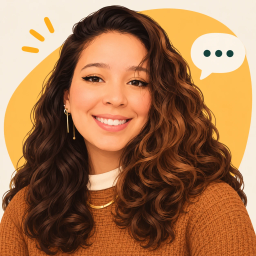
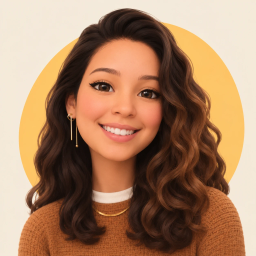
feat: highlight spoken words and refresh chat bubbles

diff --git a/src/components/practice/ChatBubble.tsx b/src/components/practice/ChatBubble.tsx
@@ -1,6 +1,19 @@
 import { Ionicons } from '@expo/vector-icons';
-import { type ComponentProps, type ReactNode, useState } from 'react';
+import {
+  type ComponentProps,
+  type ReactNode,
+  useEffect,
+  useState,
+} from 'react';
 import { Pressable, Text, View } from 'react-native';
+import Animated, {
+  cancelAnimation,
+  useAnimatedStyle,
+  useReducedMotion,
+  useSharedValue,
+  withRepeat,
+  withTiming,
+} from 'react-native-reanimated';
 
 import { CorrectionCard } from '@/components/practice/CorrectionCard';
 import { GisaAvatar } from '@/components/practice/GisaAvatar';
@@ -8,15 +21,112 @@ import { colors } from '@/constants/theme';
 import type { ChatMessage } from '@/hooks/usePracticeChat';
 import { splitByMistakes } from '@/utils/practice';
 
-// Balão da Gisa, com a foto ao lado
-export function GisaBubble({ children }: { children: ReactNode }) {
+// Amarelo do sublinhado dos erros no balão verde (yellow-300)
+const MISTAKE_UNDERLINE = '#fde047';
+
+const AVATAR_SIZE = 40;
+
+// Foto da Gisa com um anel verde pulsando enquanto ela fala
+function SpeakingAvatar({ speaking }: { speaking: boolean }) {
+  const reducedMotion = useReducedMotion();
+  const pulse = useSharedValue(0);
+
+  useEffect(() => {
+    if (speaking && !reducedMotion) {
+      pulse.value = withRepeat(withTiming(1, { duration: 600 }), -1, true);
+    } else {
+      cancelAnimation(pulse);
+      pulse.value = 0;
+    }
+  }, [speaking, reducedMotion, pulse]);
+
+  const ringStyle = useAnimatedStyle(() => ({
+    transform: [{ scale: 1 + pulse.value * 0.12 }],
+    opacity: speaking ? 1 - pulse.value * 0.5 : 0,
+  }));
+
+  return (
+    <View
+      style={{ width: AVATAR_SIZE, height: AVATAR_SIZE }}
+      className="items-center justify-center"
+    >
+      <Animated.View
+        pointerEvents="none"
+        className="absolute rounded-full border-2 border-green-500"
+        style={[
+          {
+            width: AVATAR_SIZE + 6,
+            height: AVATAR_SIZE + 6,
+          },
+          ringStyle,
+        ]}
+      />
+      <GisaAvatar size={AVATAR_SIZE} />
+    </View>
+  );
+}
+
+// Balão da Gisa, com a foto ao lado. Enquanto ela fala, a borda fica verde e
+// a foto ganha o anel pulsando.
+export function GisaBubble({
+  children,
+  speaking = false,
+}: {
+  children: ReactNode;
+  speaking?: boolean;
+}) {
   return (
     <View className="max-w-[88%] flex-row items-end gap-2 self-start">
-      <GisaAvatar size={40} />
-      <View className="shrink rounded-2xl rounded-bl-md border border-gray-200 bg-white px-4 py-3">
+      <SpeakingAvatar speaking={speaking} />
+      <View
+        accessibilityState={{ busy: speaking }}
+        className={`shrink rounded-2xl rounded-bl-md border bg-white px-4 py-3 ${speaking ? 'border-green-500' : 'border-gray-200'}`}
+      >
         {children}
       </View>
     </View>
+  );
+}
+
+// O texto da fala, com a palavra `active` destacada (a que a Gisa está
+// falando). As palavras são as partes separadas por espaço, como os tempos
+// que vêm do backend.
+function SpokenText({
+  content,
+  active,
+}: {
+  content: string;
+  active: number | null;
+}) {
+  if (active === null) {
+    return (
+      <Text className="font-poppins text-[15px] leading-6 text-gray-900">
+        {content}
+      </Text>
+    );
+  }
+
+  let word = -1;
+  return (
+    <Text className="font-poppins text-[15px] leading-6 text-gray-900">
+      {content.split(/(\s+)/).map((part, index) => {
+        if (part === '' || /^\s+$/.test(part)) {
+          return part;
+        }
+        word += 1;
+        return word === active ? (
+          <Text
+            // biome-ignore lint/suspicious/noArrayIndexKey: as partes não mudam de ordem
+            key={index}
+            className="bg-green-100 text-green-800"
+          >
+            {part}
+          </Text>
+        ) : (
+          part
+        );
+      })}
+    </Text>
   );
 }
 
@@ -55,19 +165,23 @@ export function GisaMessage({
   content,
   translation,
   listen,
+  speaking = false,
+  activeWord = null,
 }: {
   content: string;
   translation?: string;
   // Botão de ouvir (ListenButton), quando a fala tem voz
   listen?: ReactNode;
+  // A voz desta fala está tocando
+  speaking?: boolean;
+  // Índice da palavra que está sendo falada; null sem destaque
+  activeWord?: number | null;
 }) {
   const [isTranslated, setIsTranslated] = useState(false);
 
   return (
-    <GisaBubble>
-      <Text className="font-poppins text-[15px] leading-6 text-gray-900">
-        {content}
-      </Text>
+    <GisaBubble speaking={speaking}>
+      <SpokenText content={content} active={activeWord} />
 
       {translation && isTranslated ? (
         <Text className="mt-2 border-t border-gray-200 pt-2 font-poppins text-sm leading-5 text-gray-600">
@@ -114,9 +228,9 @@ export function StudentMessage({
     return (
       <View
         accessibilityLabel="Ouvindo sua resposta"
-        className="max-w-[88%] self-end rounded-2xl rounded-br-md border border-green-200 bg-green-50 px-4 py-3 opacity-60"
+        className="max-w-[88%] self-end rounded-2xl rounded-br-md bg-green-600 px-4 py-3 opacity-60"
       >
-        <Text className="font-poppins text-[15px] italic leading-6 text-gray-700">
+        <Text className="font-poppins text-[15px] italic leading-6 text-white">
           Ouvindo...
         </Text>
       </View>
@@ -138,18 +252,18 @@ export function StudentMessage({
             ? `${message.content}. Correção: ${correction.corrected}`
             : message.content
         }
-        className={`max-w-[88%] self-end rounded-2xl rounded-br-md border border-green-200 bg-green-50 px-4 py-3 ${message.status === 'sending' ? 'opacity-60' : ''}`}
+        className={`max-w-[88%] self-end rounded-2xl rounded-br-md bg-green-600 px-4 py-3 ${message.status === 'sending' ? 'opacity-60' : ''}`}
       >
-        <Text className="font-poppins text-[15px] leading-6 text-gray-900">
+        <Text className="font-poppins text-[15px] leading-6 text-white">
           {parts.map((part, index) =>
             part.isMistake ? (
               <Text
                 // biome-ignore lint/suspicious/noArrayIndexKey: as partes não mudam de ordem
                 key={index}
-                className="text-red-700"
+                className="text-white"
                 style={{
                   textDecorationLine: 'underline',
-                  textDecorationColor: colors.red,
+                  textDecorationColor: MISTAKE_UNDERLINE,
                 }}
               >
                 {part.text}

diff --git a/src/hooks/useGisaVoice.ts b/src/hooks/useGisaVoice.ts
@@ -25,17 +25,35 @@ export type VoiceState = 'idle' | 'loading' | 'playing';
 // `<id>-corrected`) e só marca qual botão está tocando; o arquivo é guardado
 // pela assinatura, única para cada texto: a abertura tem o mesmo id em toda
 // conversa, mas não o mesmo texto.
+//
+// Com os tempos das palavras que o backend devolve, `activeWordOf` diz qual
+// palavra está sendo falada, para o balão destacar como uma legenda.
+
+// Frequência com que o player informa o tempo: curta para a palavra
+// destacada acompanhar a fala
+const STATUS_INTERVAL_MS = 100;
+
+interface CachedSpeech {
+  uri: string;
+  wordStarts: number[] | null;
+}
+
 export function useGisaVoice() {
   const { token } = useAuth();
-  const player = useAudioPlayer();
+  const player = useAudioPlayer(undefined, {
+    updateInterval: STATUS_INTERVAL_MS,
+  });
   const status = useAudioPlayerStatus(player);
-  // Assinatura da fala para o arquivo no cache
-  const files = useRef(new Map<string, string>());
+  // Assinatura da fala para o arquivo no cache e os tempos das palavras
+  const files = useRef(new Map<string, CachedSpeech>());
   // Sobe a cada pedido e a cada `stop`: a resposta de um pedido antigo não toca
   const request = useRef(0);
   const isMountedRef = useRef(true);
   const [loadingKey, setLoadingKey] = useState<string | null>(null);
   const [currentKey, setCurrentKey] = useState<string | null>(null);
+  const [currentWordStarts, setCurrentWordStarts] = useState<number[] | null>(
+    null
+  );
   // A mesma chave e o arquivo carregado no player, lidos depois de um pedido
   // que demorou
   const currentKeyRef = useRef<string | null>(null);
@@ -66,7 +84,7 @@ export function useGisaVoice() {
       } catch {
         // player já liberado
       }
-      for (const uri of cached.values()) {
+      for (const { uri } of cached.values()) {
         try {
           new File(uri).delete();
         } catch {
@@ -78,7 +96,8 @@ export function useGisaVoice() {
   }, [player]);
 
   // `current` é o pedido que mandou tocar: um `stop` no meio cancela
-  function play(key: string, uri: string, current: number) {
+  function play(key: string, speech: CachedSpeech, current: number) {
+    const { uri } = speech;
     if (key === currentKeyRef.current && uri === currentUriRef.current) {
       // Depois de tocar até o fim o player fica parado no final do áudio
       player
@@ -95,6 +114,7 @@ export function useGisaVoice() {
       currentKeyRef.current = key;
       currentUriRef.current = uri;
       setCurrentKey(key);
+      setCurrentWordStarts(speech.wordStarts);
     }
   }
 
@@ -126,9 +146,13 @@ export function useGisaVoice() {
       }
       const file = new File(Paths.cache, `gisa-${Date.now()}-${current}.mp3`);
       file.write(speech.audio, { encoding: 'base64' });
-      files.current.set(signature, file.uri);
+      const entry: CachedSpeech = {
+        uri: file.uri,
+        wordStarts: speech.wordStarts ?? null,
+      };
+      files.current.set(signature, entry);
       if (current === request.current) {
-        play(key, file.uri, current);
+        play(key, entry, current);
       }
     } catch (err) {
       if (!isMountedRef.current) {
@@ -162,6 +186,21 @@ export function useGisaVoice() {
     return currentKey === key && status.playing ? 'playing' : 'idle';
   }
 
+  // Índice da palavra que está sendo falada na fala `key` (as partes do texto
+  // separadas por espaço); null quando ela não está tocando ou não tem tempos
+  function activeWordOf(key: string): number | null {
+    if (stateOf(key) !== 'playing' || !currentWordStarts?.length) {
+      return null;
+    }
+    let index = 0;
+    for (let i = 0; i < currentWordStarts.length; i++) {
+      if (currentWordStarts[i] <= status.currentTime) {
+        index = i;
+      }
+    }
+    return index;
+  }
+
   // Toque do aluno no botão de ouvir: toca, ou para o que está tocando
   function toggle(key: string, text: string, signature: string) {
     if (stateOf(key) !== 'idle') {
@@ -193,6 +232,7 @@ export function useGisaVoice() {
 
   return {
     stateOf,
+    activeWordOf,
     toggle,
     autoplay,
     stop,

diff --git a/src/app/(app)/practice/chat.tsx b/src/app/(app)/practice/chat.tsx
@@ -365,6 +365,8 @@ export default function PracticeChatScreen() {
                 <GisaMessage
                   content={item.content}
                   translation={item.translation}
+                  speaking={voice.stateOf(item.id) === 'playing'}
+                  activeWord={voice.activeWordOf(item.id)}
                   listen={
                     signature ? (
                       <ListenButton

diff --git a/src/services/practice.ts b/src/services/practice.ts
@@ -90,6 +90,9 @@ export interface PracticeSpeech {
   // MP3 em base64
   audio: string;
   format: 'mp3';
+  // Segundo em que cada palavra da fala começa (as partes separadas por
+  // espaço); null sem alinhamento, ausente no backend antigo
+  wordStarts?: number[] | null;
 }
 
 // Voz de uma fala da Gisa ou de uma frase corrigida. O texto vai como veio

diff --git a/.specs/practice-chat/architecture.md b/.specs/practice-chat/architecture.md
@@ -124,7 +124,7 @@ A abertura e o turno trazem, todos opcionais (ausentes no backend antigo):
 - `suggestion` e `suggestionTranslation`: uma resposta possível do aluno à pergunta da fala, e a tradução. Podem vir vazias.
 - `replySignature`: a assinatura de `reply`. No turno, `correctedSignature`, só quando `correction.hasErrors` é verdadeiro: a assinatura de `correction.corrected`.
 
-`POST /api/mobile/practice/speech`, com `{ "text": string, "signature": string }`, devolve `{ "audio": "<MP3 em base64>", "format": "mp3" }`. O texto vai exatamente como veio do backend: é o que a assinatura cobre.
+`POST /api/mobile/practice/speech`, com `{ "text": string, "signature": string }`, devolve `{ "audio": "<MP3 em base64>", "format": "mp3", "wordStarts": number[] | null }`. O texto vai exatamente como veio do backend: é o que a assinatura cobre. `wordStarts` é o segundo em que cada palavra da fala começa, na ordem das partes do texto separadas por espaço, para o app destacar a palavra que está sendo falada; vem `null` quando a ElevenLabs não devolve o alinhamento.
 
 `POST /api/mobile/practice/transcription`, multipart com a gravação no campo `audio` (até 1 MB), devolve `{ "text": string }`, vazio quando não há fala. O app envia o texto pela rota do turno.
 

diff --git a/.specs/practice-chat/06-voice-and-hints.md b/.specs/practice-chat/06-voice-and-hints.md
@@ -157,6 +157,11 @@ yarn tsc --noEmit
 
 ## Divergências
 
+- **Ajustes pedidos depois da primeira versão** (mudança pequena, combinada no chat):
+  - a foto da Gisa foi trocada por uma ilustração nova, enviada pelo dono do projeto;
+  - enquanto a Gisa fala, a borda do balão fica verde, a foto ganha um anel verde pulsando e a palavra que está sendo falada ganha fundo `bg-green-100`, acompanhando o áudio pelos tempos `wordStarts` da rota da voz (`activeWordOf`, em `useGisaVoice`, com o tempo do player a cada 100 ms); sem os tempos, fica só a borda e o anel;
+  - o balão do aluno passou a verde sólido (`bg-green-600`) com texto branco, e os erros, a sublinhado amarelo. Substitui o `bg-green-50` de RF-14.
+
 - **`diffWords` ficou em `src/utils/diffWords.ts`**, sem imports, para ser testado com o Node direto.
 - **`HoldToTalkButton` ganhou `compact`, além de `size`:** sem a barra de progresso e com o tempo junto do aviso, para caber na barra do chat ao lado do teclado e da dica.
 - **`useHoldToTalk` não tem `stop()`:** sair da tela já para a gravação no próprio hook. Ele ganhou a fase `sending`, enquanto a gravação é entregue, que a pronúncia mostra como "conferindo".
